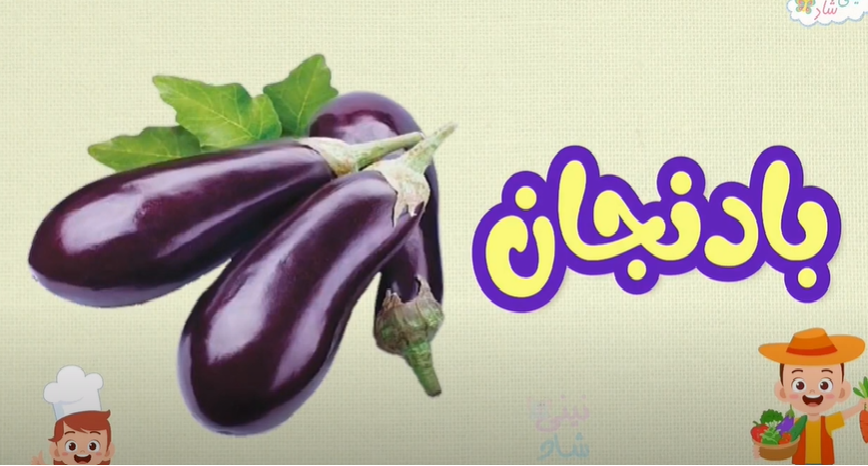
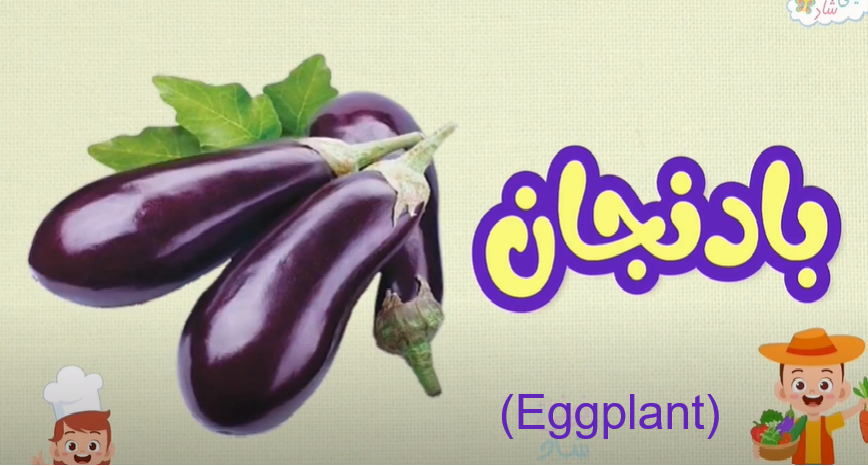
add english name to vagetabe in alphbet page

Changed region(s): [[0.5599, 0.8412, 0.8399, 0.9614]]

diff --git a/alphabet.html b/alphabet.html
@@ -3454,6 +3454,11 @@
           <div class="mt-3" id="testme6"><script>test("#testme6","rgb(66, 129, 10);","rgb(136, 188, 22)","کلمات زیر را بخوانید:","هَواپِیما - هُلو - هَشت پا - هَوا"," هِندِوانه - وَزنِه - واگُن - ویالون - ","وَصله - یوزپَلَنگ - یَخچال - یویو - یاقوت")</script></div>
         </section>
         <!-- *************************** End Add fast word to Page*************** -->
+       <!-- ****************************** Start Add fast word to page************** -->
+        <section>
+          <div class="mt-3" id="testme7"><script>test("#testme7","rgb(33, 239, 100);","rgb(16, 88, 122)","سبزیجات","اسفناج - بادنجان - پیاز - پیازچه - ترب - جعفری","چغندر - سیر - شلغم - شوید - فلفل - فلفل دلمه","قارچ - کاهو - کدو - کدو سبز - کرفس - کلم - کلم بروکلی","گل کلم - نخودفرنگی - لوبیا - هویج")</script></div>
+        </section>
+        <!-- *************************** End Add fast word to Page*************** -->
 
 
       <br><br><br><br><br><br><br><br><br><br>

diff --git a/index.js b/index.js
@@ -211,7 +211,7 @@ console.log(id);
 }
 
 
-// ******************** Start make new carousel for words and sylabels in alpha Page
+// ******************** Start make new carousel for words and sylabels in alpha Page --> vagetables & Fruits ******
 
 function makeWordCarousel(classCarousel,sectionClass){
     let wordCrousel = {
@@ -293,7 +293,7 @@ function makeWordCarousel(classCarousel,sectionClass){
         },
         {
             image : "./images/exampleLetter/example2/11-07-15.png",
-            sylabelWord : "شِ + وید --> شُوید",
+            sylabelWord : "شِ + وید --> شِوید",
             active :""
         },
         {
@@ -469,4 +469,4 @@ function makeWordCarousel(classCarousel,sectionClass){
     document.querySelector(`.${wordCrousel.imageCarousel}`).innerHTML += alphaImageHTML;
     
 }
-// *******************End make new carousel for words and sylabels in alpha Page
+// *******************End make new carousel for words and sylabels in alpha Page --> vagetables & Fruits *****
